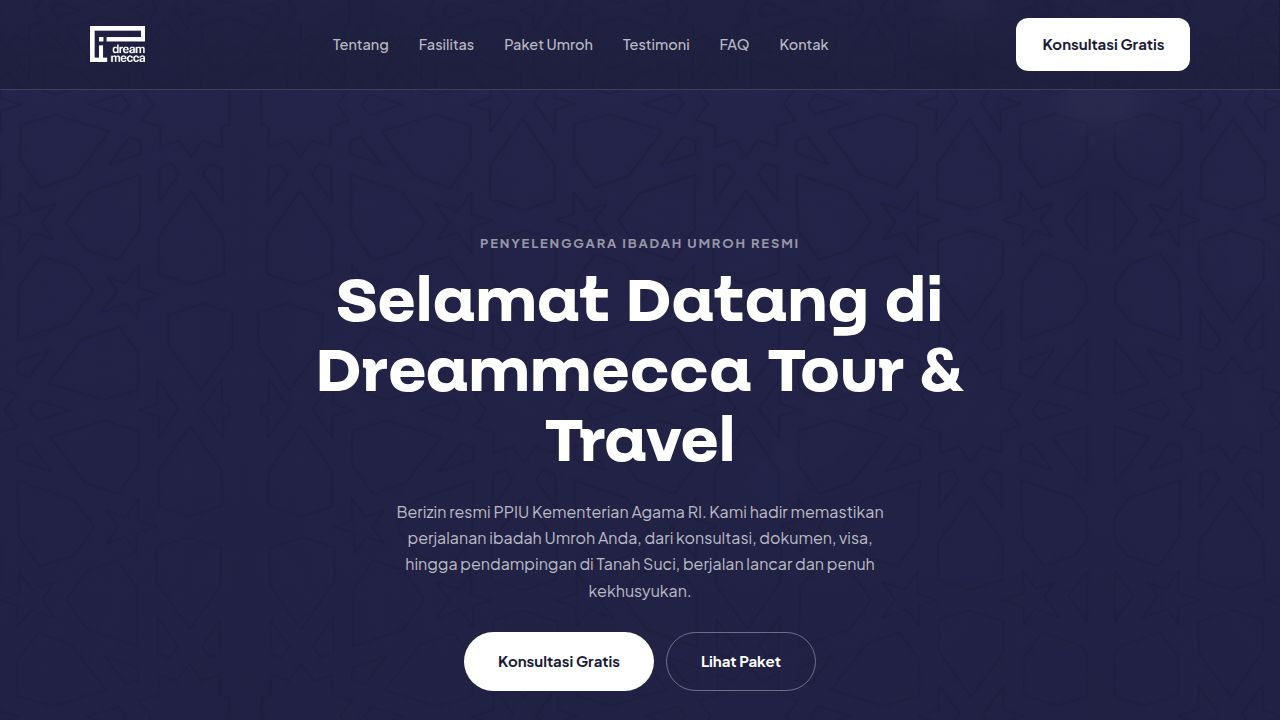
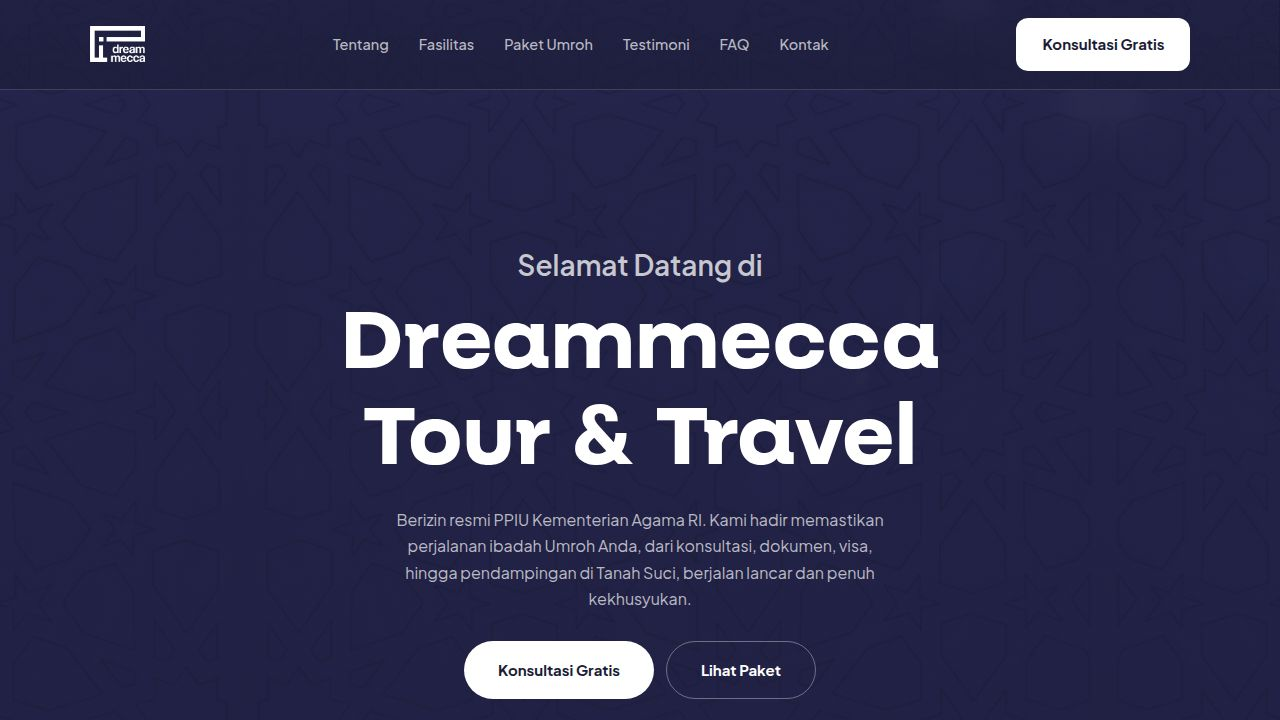
Improve build configuration for deployment and local development
Adjust Vite configuration to handle optional environment variables for port and base path, conditionally enable Replit-specific plugins, and standardize the build output directory for improved deployment compatibility.

Replit-Commit-Author: Agent
Replit-Commit-Session-Id: 225b1437-31ed-42b3-8a79-c445853caad6
Replit-Commit-Checkpoint-Type: full_checkpoint
Replit-Commit-Event-Id: 51a6b94a-c396-4fbb-b9b6-5aaddfae30c8
Replit-Commit-Screenshot-Url: https://storage.googleapis.com/screenshot-production-us-central1/ac56fb5b-35be-4115-981e-d8f9a4b67c78/225b1437-31ed-42b3-8a79-c445853caad6/OAH1PLi
Replit-Helium-Checkpoint-Created: true

Changed region(s): [[0.25, 0.3361, 0.75, 0.6417], [0.3125, 0.7028, 0.6875, 0.9778]]

diff --git a/artifacts/dreammecca/vite.config.ts b/artifacts/dreammecca/vite.config.ts
@@ -3,47 +3,31 @@ import react from '@vitejs/plugin-react';
 import tailwindcss from '@tailwindcss/vite';
 import { defineConfig } from 'vite';
 
-import runtimeErrorOverlay from '@replit/vite-plugin-runtime-error-modal';
-
-const rawPort = process.env.PORT;
-
-if (!rawPort) {
-  throw new Error(
-    'PORT environment variable is required but was not provided.',
-  );
-}
-
-const port = Number(rawPort);
-
-if (Number.isNaN(port) || port <= 0) {
-  throw new Error(`Invalid PORT value: "${rawPort}"`);
-}
-
-const basePath = process.env.BASE_PATH;
-
-if (!basePath) {
-  throw new Error(
-    'BASE_PATH environment variable is required but was not provided.',
-  );
-}
+const port = process.env.PORT ? parseInt(process.env.PORT) : 5173;
+const basePath = process.env.BASE_PATH ?? '/';
 
 export default defineConfig({
   base: basePath,
   plugins: [
     react(),
     tailwindcss(),
-    runtimeErrorOverlay(),
-    ...(process.env.NODE_ENV !== 'production' &&
-    process.env.REPL_ID !== undefined
+    ...(process.env.REPL_ID !== undefined
       ? [
-          await import('@replit/vite-plugin-cartographer').then((m) =>
-            m.cartographer({
-              root: path.resolve(import.meta.dirname, '..'),
-            }),
+          await import('@replit/vite-plugin-runtime-error-modal').then((m) =>
+            m.default()
           ),
-          await import('@replit/vite-plugin-dev-banner').then((m) =>
-            m.devBanner(),
-          ),
+          ...(process.env.NODE_ENV !== 'production'
+            ? [
+                await import('@replit/vite-plugin-cartographer').then((m) =>
+                  m.cartographer({
+                    root: path.resolve(import.meta.dirname, '..'),
+                  })
+                ),
+                await import('@replit/vite-plugin-dev-banner').then((m) =>
+                  m.devBanner()
+                ),
+              ]
+            : []),
         ]
       : []),
   ],
@@ -61,7 +45,7 @@ export default defineConfig({
   },
   root: path.resolve(import.meta.dirname),
   build: {
-    outDir: path.resolve(import.meta.dirname, 'dist/public'),
+    outDir: path.resolve(import.meta.dirname, 'dist'),
     emptyOutDir: true,
   },
   server: {